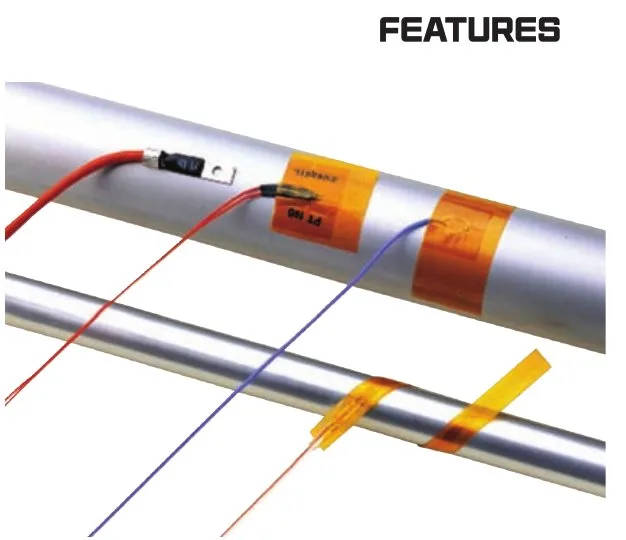
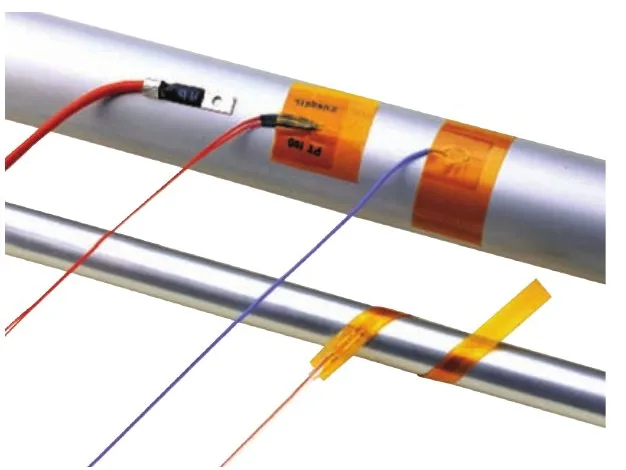
SEO·배포 파일, 404, 운영 README 추가 및 모바일·이미지 보정
Claude-Session: https://claude.ai/code/session_01WXnhFRQfyrT5vsmqEf74QN

diff --git a/404.html b/404.html
@@ -1,0 +1,24 @@
+<!DOCTYPE html>
+<html lang="ko">
+<head>
+<meta charset="UTF-8">
+<meta name="viewport" content="width=device-width, initial-scale=1">
+<title>페이지를 찾을 수 없습니다 | SMG 주식회사 에스엠지</title>
+<meta name="description" content="㈜에스엠지 개인정보처리방침">
+<meta name="theme-color" content="#0d1117">
+<meta property="og:type" content="website">
+<meta property="og:site_name" content="SMG 주식회사 에스엠지">
+<meta property="og:title" content="개인정보처리방침 | SMG 주식회사 에스엠지">
+<meta property="og:description" content="㈜에스엠지 개인정보처리방침">
+<meta property="og:image" content="assets/img/hero.webp">
+<link rel="icon" href="assets/favicon.svg" type="image/svg+xml">
+<link rel="preconnect" href="https://cdn.jsdelivr.net" crossorigin>
+<link rel="stylesheet" href="https://cdn.jsdelivr.net/gh/orioncactus/pretendard@v1.3.9/dist/web/variable/pretendardvariable-dynamic-subset.min.css">
+<link rel="stylesheet" href="css/site.css">
+</head>
+<body data-page="notfound">
+<main id="main" style="min-height:100vh;display:flex;align-items:center;background:var(--ink);color:#fff"><div class="container" style="padding-top:var(--header-h)"><span class="eyebrow">404 Not Found</span><h1 style="font-size:clamp(48px,8vw,120px);font-weight:900;letter-spacing:-.04em;line-height:1">404</h1><p style="color:rgba(255,255,255,.7);margin:16px 0 32px;font-size:18px">요청하신 페이지를 찾을 수 없습니다. 주소를 확인하시거나 아래 버튼을 이용해 주세요.</p><div class="hero-cta"><a class="btn btn-primary" href="index.html">홈으로</a><a class="btn btn-ghost" href="products.html">제품 보기</a><a class="btn btn-ghost" href="contact.html">문의하기</a></div></div></main>
+<script src="data/site-data.js"></script>
+<script src="js/app.js"></script>
+</body>
+</html>

diff --git a/index.html b/index.html
@@ -15,6 +15,7 @@
 <link rel="preconnect" href="https://cdn.jsdelivr.net" crossorigin>
 <link rel="stylesheet" href="https://cdn.jsdelivr.net/gh/orioncactus/pretendard@v1.3.9/dist/web/variable/pretendardvariable-dynamic-subset.min.css">
 <link rel="stylesheet" href="css/site.css">
+<script type="application/ld+json">{"@context":"https://schema.org","@type":"Organization","name":"주식회사 에스엠지","alternateName":["SMG Co., Ltd.","SUNGSIL MFG"],"url":"https://www.sungsil.com","logo":"assets/favicon.svg","foundingDate":"1990","email":"sungsil@sungsil.com","telephone":"+82-31-504-7766","faxNumber":"+82-31-504-0200","address":{"@type":"PostalAddress","streetAddress":"시화벤처로 305 (시화 MTV 3사 204호)","addressLocality":"시흥시","addressRegion":"경기도","addressCountry":"KR"}}</script>
 </head>
 <body data-page="home">
 <main id="main">

diff --git a/data/site-data.js b/data/site-data.js
@@ -44,7 +44,7 @@ window.SMG_DEFAULT_DATA = {
     { "value": "1990", "label": "설립연도", "suffix": "" },
     { "value": "35", "label": "제조 업력", "suffix": "년+" },
     { "value": "20", "label": "제품 라인업", "suffix": "종+" },
-    { "value": "7", "label": "방폭·선급 인증 체계", "suffix": "" }
+    { "value": "8", "label": "보유 인증 (방폭·선급·ISO)", "suffix": "종" }
   ],
   "about": {
     "title": "A Higher Degree of Confidence for SMG Products",

diff --git a/css/site.css b/css/site.css
@@ -388,5 +388,8 @@ input,select,textarea{font:inherit;color:inherit}
   .dl-item{flex-wrap:wrap}
   .dl-item .btn{margin-left:0;width:100%;justify-content:center}
   .sub-bg{display:none}
+  .fab{right:14px;bottom:14px}
+  .fab a,.fab button{width:48px;height:48px}
+  .hero h1{max-width:none}
 }
 @media print{.hdr,.ftr,.fab,.tabs,.pd-actions{display:none}.sub-hero{padding:20px 0;background:none;color:#000}}

diff --git a/README.md b/README.md
@@ -1,0 +1,62 @@
+# SMG 주식회사 에스엠지 — 기업 홈페이지
+
+2024 Products Catalogue를 바탕으로 만든 정적 기업 홈페이지와 관리자(CMS)입니다.
+서버나 DB 없이 어떤 호스팅(GitHub Pages, Netlify, Cloudflare Pages, 일반 웹호스팅)에도 그대로 올려서 운영할 수 있습니다.
+
+## 구성
+
+| 페이지 | 파일 | 내용 |
+|---|---|---|
+| 메인 | `index.html` | 히어로, 핵심 수치, 제품 라인업, 회사소개, 적용분야, 주요 제품, 인증, 파트너, 소식, CTA, 팝업 |
+| 회사소개 | `about.html` | CEO 인사말, 기업정보, 연혁(1990~2024), 인증현황, 오시는 길(지도) |
+| 제품목록 | `products.html` | 카테고리 필터, 통합 검색(모델·인증·적용분야), URL 공유(`?cat=`, `?q=`) |
+| 제품상세 | `product.html?id=…` | 갤러리·확대, 특징, 사양표, 인증, Ordering Code 복사, 제품 견적 문의, 관련 제품 |
+| 적용분야 | `applications.html` | 산업별 솔루션, 방산부품 적용처 |
+| 고객지원 | `support.html` | 공지사항, 자료실(카탈로그 PDF), FAQ |
+| 견적문의 | `contact.html` | 검증 포함 문의 폼, 개인정보 동의, 스팸 방지, 지도 |
+| 기타 | `privacy.html`, `404.html`, `robots.txt`, `sitemap.xml` | 개인정보처리방침, 오류 페이지, SEO |
+| **관리자** | `admin.html` | 콘텐츠 관리(CMS) |
+
+- 모든 콘텐츠는 `data/site-data.js` 한 파일에 들어 있습니다.
+- 제품 이미지는 `assets/img/*.webp`(카탈로그에서 추출), 카탈로그 원본은 `assets/SMG_Products_Catalogue.pdf`입니다.
+- 이전 연구소 대시보드는 `dashboard/`로 옮겨 그대로 두었습니다.
+
+## 관리자 사용법 (`/admin.html`)
+
+1. 초기 비밀번호 **`smg1234!`**로 로그인합니다. 로그인한 뒤 **[설정]에서 바로 변경**하세요.
+2. 왼쪽 메뉴에서 제품·공지·자료실·FAQ·연혁·회사정보·메인 화면 등을 편집합니다. 편집 내용은 브라우저에 자동으로 임시저장됩니다.
+   - 제품: 사진 업로드(자동 WebP 압축)·대표 사진 지정, 특징/사양/인증 행 추가·순서 변경, 복제, 메인 노출을 설정할 수 있습니다.
+3. **[미리보기]**를 누르면 실제 사이트에서 임시저장 내용을 확인할 수 있습니다. 방문자에게는 보이지 않습니다.
+4. **[게시하기]**는 두 가지 방식 중 하나를 고릅니다.
+   - **GitHub 직접 게시**: Fine-grained token(해당 저장소 Contents Read & Write)을 입력하면 `data/site-data.js`가 커밋되고, 1~2분 뒤 사이트에 반영됩니다.
+   - **파일 다운로드**: `site-data.js`를 내려받아 서버의 `data/` 폴더에 덮어씁니다(FTP 호스팅용).
+5. **문의 관리**: 상태(신규/처리중/완료) 변경, 상세 보기, 메일 회신, 엑셀(CSV) 다운로드를 지원합니다.
+6. **게시 · 백업**: 전체 콘텐츠를 JSON으로 백업·복원할 수 있고, 임시저장분을 폐기할 수도 있습니다.
+
+## 배포 전 체크리스트
+
+- [ ] **문의 메일 수신 설정**: [설정] → 폼 수신 주소에 Formspree 같은 서비스의 Endpoint를 등록합니다. 등록하지 않으면 방문자의 메일 앱으로 `sungsil@sungsil.com`에 발송되는 방식으로 동작합니다.
+  - 문의 관리 화면에는 **같은 브라우저에서 접수된 건만** 보입니다. 실제 운영에서는 Endpoint를 연결해 메일로 받아야 합니다.
+- [ ] **관리자 비밀번호 변경**, 그리고 호스팅 단에서 `admin.html` 접근 제한(Cloudflare Access, Basic Auth 등)을 권장합니다. 정적 사이트의 비밀번호 잠금은 간이 보호입니다.
+- [ ] [회사 정보]에 **대표자명·사업자등록번호** 입력(푸터 표시)
+- [ ] 실제 도메인으로 `sitemap.xml`, `robots.txt`의 `https://www.sungsil.com` 확인·수정
+- [ ] (선택) [설정]에 Google Analytics 측정 ID 입력
+
+## GitHub Pages로 배포
+
+1. 이 브랜치를 `main`에 병합합니다.
+2. 저장소 **Settings → Pages → Source: Deploy from a branch → `main` / root**를 선택합니다.
+3. 커스텀 도메인을 쓰려면 같은 화면의 Custom domain에 입력하고 DNS를 연결합니다.
+
+## 로컬 미리보기
+
+```bash
+python3 -m http.server 8000
+```
+
+브라우저에서 http://localhost:8000 을 엽니다.
+
+## 기술 메모
+
+- 순수 HTML/CSS/JS로 작성했습니다(빌드 도구·프레임워크 없음). 폰트는 Pretendard(CDN)를 씁니다.
+- 반응형(모바일 390px~데스크톱), 접근성(본문 바로가기·키보드 조작·포커스 표시·reduced-motion), Open Graph와 Schema.org(Organization·Product) 메타데이터를 적용했습니다.
